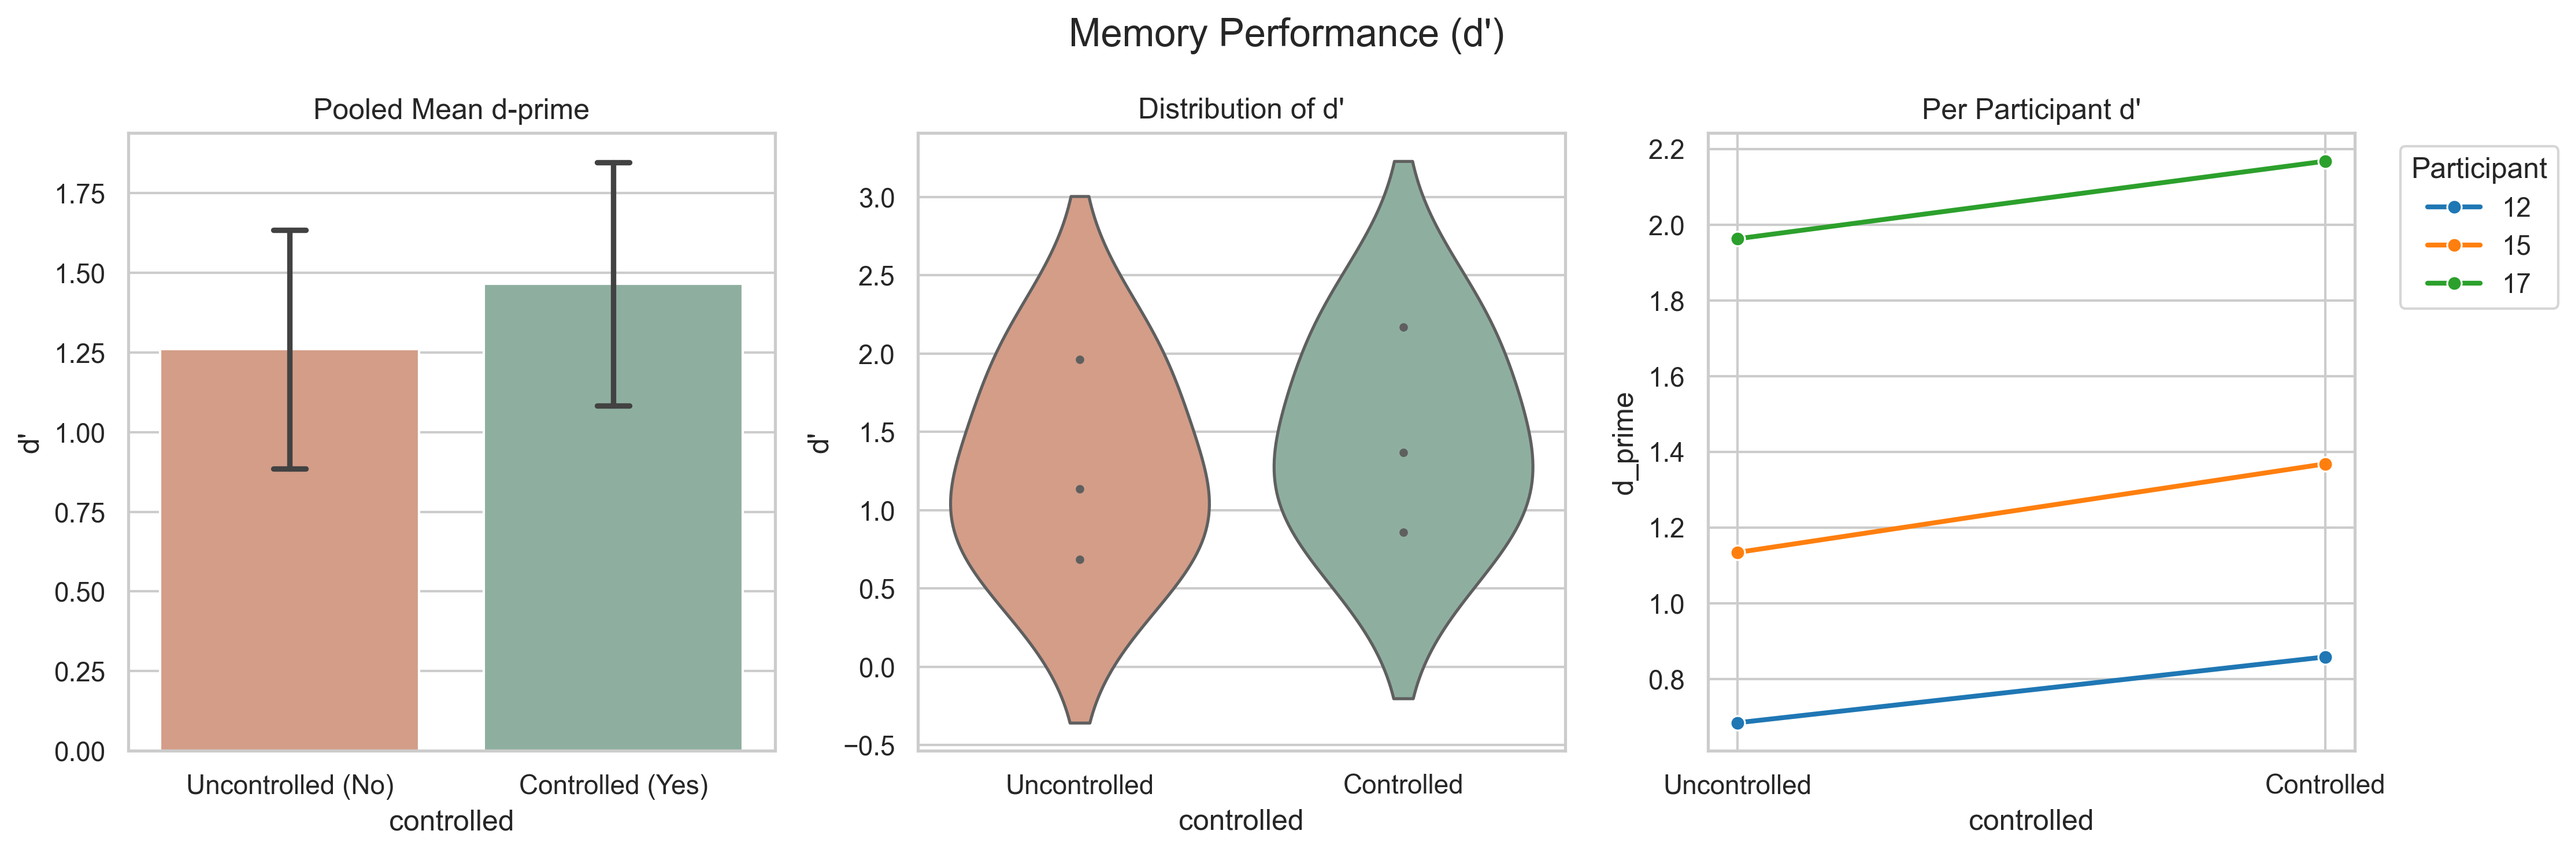
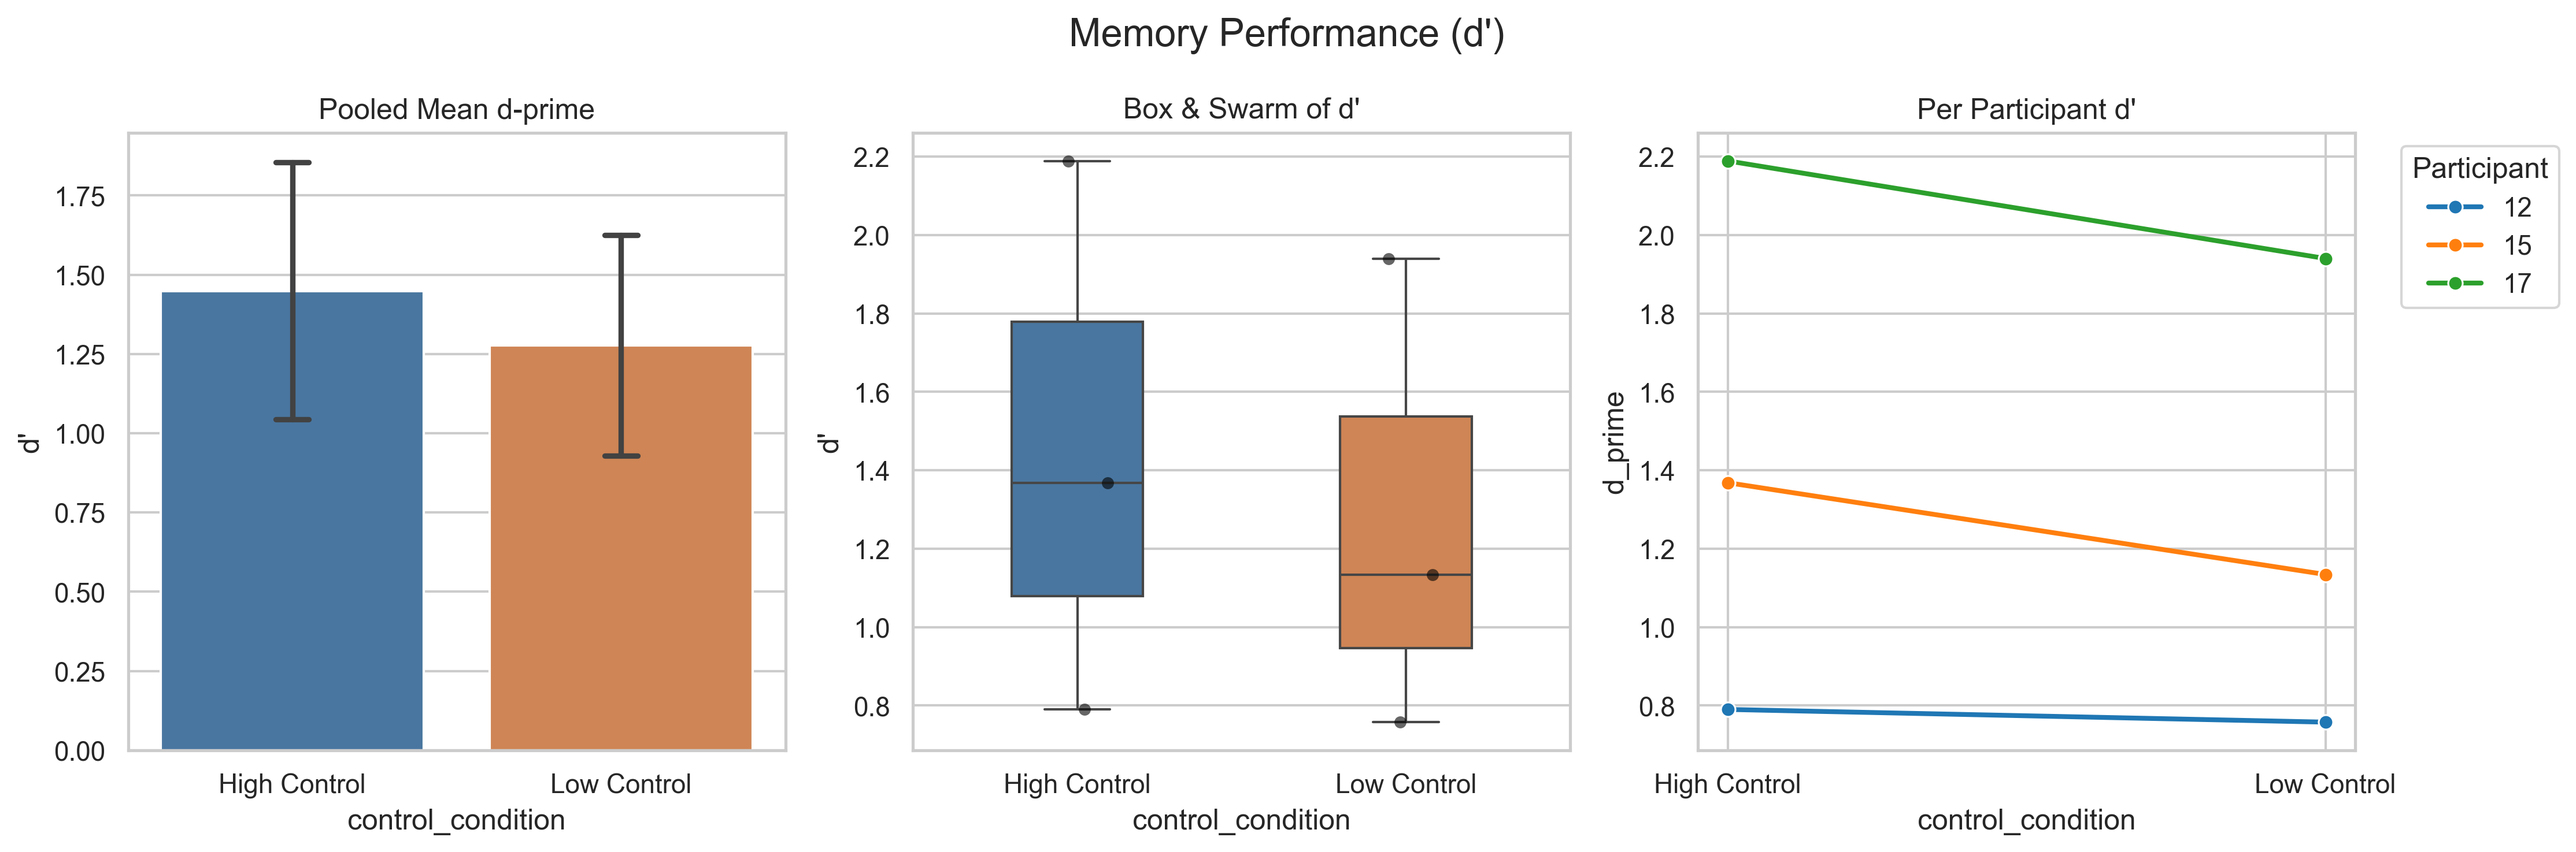
updated manipulation check, model predictor #2,  plots

diff --git a/beh_analyses_1.py b/beh_analyses_1.py
@@ -143,38 +143,7 @@ print("="*40)
 
 clean_recog_data["controlled"] = clean_recog_data["controlled"].astype(str).str.strip().str.lower()
 
-# --- Compute d-prime ---
-def compute_d_prime(hits, misses, false_alarms, correct_rejections):
-    hit_rate = (hits + 0.5) / (hits + misses + 1)
-    fa_rate = (false_alarms + 0.5) / (false_alarms + correct_rejections + 1)
-    return norm.ppf(hit_rate) - norm.ppf(fa_rate)
-
-false_alarm_stats = (
-    clean_recog_data[clean_recog_data["mem_ground_truth"] == "unseen"]
-    .groupby("participant")["mem_response"]
-    .value_counts().unstack(fill_value=0)
-    .rename(columns={"yes": "false_alarms", "no": "correct_rejections"}).reset_index()
-)
-for col in ["false_alarms", "correct_rejections"]:
-    if col not in false_alarm_stats.columns: false_alarm_stats[col] = 0
-
-rows = []
-for participant, subject_data in clean_recog_data.groupby("participant"):
-    fa_row = false_alarm_stats[false_alarm_stats["participant"] == participant]
-    if fa_row.empty: continue
-    fa, cr = int(fa_row["false_alarms"].iloc[0]), int(fa_row["correct_rejections"].iloc[0])
-
-    for condition, condition_data in subject_data[subject_data["mem_ground_truth"] == "seen"].groupby("controlled"):
-        if condition not in {"yes", "no"}: continue
-        hits, misses = (condition_data["mem_response"] == "yes").sum(), (condition_data["mem_response"] == "no").sum()
-        rows.append({"participant": participant, "controlled": condition, "hits": hits, "misses": misses,
-                     "false_alarms": fa, "correct_rejections": cr, "d_prime": compute_d_prime(hits, misses, fa, cr)})
-
-results_df = pd.DataFrame(rows)
-results_df.to_csv(OUTPUT_DIR / "dprime_by_condition.csv", index=False)
-print("Saved d' summaries to analysis_output/dprime_by_condition.csv")
-
-# --- Merge Main Data vars into Recognition Targets ---
+# --- 1. Merge Main Data vars into Recognition Targets ---
 targets = clean_recog_data[clean_recog_data['mem_ground_truth'] == 'seen'].copy()
 
 lookup_A = data[['participant', 'img_A_name', 'control_condition', 'detection_accuracy']].rename(columns={'img_A_name': 'mem_filename'})
@@ -186,7 +155,7 @@ if 'control_condition' in targets.columns:
 
 targets = targets.merge(img_lookup, on=['participant', 'mem_filename'], how='left')
 
-# --- Assign Foils (Dummy Conditions) ---
+# --- 2. Assign Foils (Dummy Conditions) ---
 foils = clean_recog_data[clean_recog_data['mem_ground_truth'] == 'unseen'].copy()
 foils = foils.sort_values(by=['participant', 'mem_filename'])
 row_numbers = foils.groupby('participant').cumcount()
@@ -195,17 +164,59 @@ total_foils = foils.groupby('participant')['mem_ground_truth'].transform('count'
 foils['control_condition'] = np.where(row_numbers < (total_foils / 2), 'high', 'low')
 foils['controlled'] = np.where(row_numbers % 2 == 0, 'yes', 'no')
 
-# --- Combine Model Data & Contrast Code ---
+# --- 3. Combine Model Data & Contrast Code ---
 model_data = pd.concat([targets, foils], ignore_index=True)
 
 model_data['said_old_int'] = model_data['mem_response'].map({'yes': 1, 'no': 0})
 model_data['log_mem_rt'] = np.log(model_data['mem_rt']) 
 
+# Predictor 1: Control Condition (+0.5 High, -0.5 Low)
 model_data['control_c'] = np.where(model_data['control_condition'] == 'high', 0.5, -0.5)
-model_data['item_type_c'] = np.where(model_data['controlled'] == 'yes', 0.5, -0.5)
 
+# Predictor 2: Item Type (+0.5 SEEN, -0.5 UNSEEN) - FIXED BASED ON SUPERVISOR FEEDBACK
+model_data['item_type_c'] = np.where(model_data['mem_ground_truth'] == 'seen', 0.5, -0.5)
+
+# Predictor 3: Detection Accuracy
 model_data['detection_accuracy_c'] = np.where(model_data['detection_accuracy'] == 1, 0.5, 
                                      np.where(model_data['detection_accuracy'] == 0, -0.5, np.nan))
+
+# --- 4. Compute d-prime (Now calculating based on High vs Low Control) ---
+def compute_d_prime(hits, misses, false_alarms, correct_rejections):
+    hit_rate = (hits + 0.5) / (hits + misses + 1)
+    fa_rate = (false_alarms + 0.5) / (false_alarms + correct_rejections + 1)
+    return norm.ppf(hit_rate) - norm.ppf(fa_rate)
+
+false_alarm_stats = (
+    model_data[model_data["mem_ground_truth"] == "unseen"]
+    .groupby("participant")["mem_response"]
+    .value_counts().unstack(fill_value=0)
+    .rename(columns={"yes": "false_alarms", "no": "correct_rejections"}).reset_index()
+)
+for col in ["false_alarms", "correct_rejections"]:
+    if col not in false_alarm_stats.columns: false_alarm_stats[col] = 0
+
+rows = []
+for participant, subject_data in model_data.groupby("participant"):
+    fa_row = false_alarm_stats[false_alarm_stats["participant"] == participant]
+    if fa_row.empty: continue
+    fa, cr = int(fa_row["false_alarms"].iloc[0]), int(fa_row["correct_rejections"].iloc[0])
+
+    # Grouping by control_condition for our main effect hypothesis!
+    for condition, condition_data in subject_data[subject_data["mem_ground_truth"] == "seen"].groupby("control_condition"):
+        if condition not in {"high", "low"}: continue
+        hits, misses = (condition_data["mem_response"] == "yes").sum(), (condition_data["mem_response"] == "no").sum()
+        rows.append({"participant": participant, "control_condition": condition, "hits": hits, "misses": misses,
+                     "false_alarms": fa, "correct_rejections": cr, "d_prime": compute_d_prime(hits, misses, fa, cr)})
+
+results_df = pd.DataFrame(rows)
+results_df.to_csv(OUTPUT_DIR / "dprime_by_condition.csv", index=False)
+print("Saved d' summaries to analysis_output/dprime_by_condition.csv")
+
+# --- 5. Above-Chance Memory Check (One-Sample T-Test) ---
+mean_dprime_per_pt = results_df.groupby('participant')['d_prime'].mean()
+print("\n--- D-PRIME ONE-SAMPLE T-TEST (Is memory above chance?) ---")
+dprime_ttest = pg.ttest(mean_dprime_per_pt, 0)
+print(dprime_ttest.to_string())
 
 
 # =============================================================================
@@ -243,7 +254,7 @@ rq2_rt.fit()
 print(rq2_rt.result_fit)
 
 # =============================================================================
-# PHASE 6: PLOTTING (WITH CUSTOM COLOR PALETTES)
+# PHASE 6: PLOTTING (UPDATED FOR MAIN EFFECT)
 # =============================================================================
 print("\n" + "="*40)
 print("PHASE 6: GENERATING PLOTS")
@@ -253,12 +264,15 @@ sns.set_theme(style="whitegrid")
 PLOT_DIR = OUTPUT_DIR / "plots"
 PLOT_DIR.mkdir(parents=True, exist_ok=True)
 
+# Condition Colors (Blue for High, Orange for Low)
 COND_COLORS = {'high': '#3a76af', 'low': '#e38041'}
-ITEM_COLORS = {'yes': '#88b5a1', 'no': '#df987b'}
 
 unique_pts = pt_means['participant'].unique()
 pt_palette = sns.color_palette("tab10", n_colors=len(unique_pts))
 PT_COLORS = {pt: color for pt, color in zip(unique_pts, pt_palette)}
+
+# Sort condition alphabetically so 'high' always comes before 'low' in plots
+results_df['control_condition'] = pd.Categorical(results_df['control_condition'], categories=['high', 'low'], ordered=True)
 
 # --- H3: Sanity Check Plots ---
 mani_data['detection_accuracy_pct'] = mani_data['detection_accuracy'] * 100
@@ -266,7 +280,7 @@ mani_data['detection_accuracy_pct'] = mani_data['detection_accuracy'] * 100
 fig, axes = plt.subplots(2, 2, figsize=(12, 10))
 fig.suptitle('Sanity Checks: Agency Rating & Detection Accuracy', fontsize=16)
 
-sns.barplot(data=mani_data, x='control_condition', y='agency_rating', capsize=.1, errorbar='se', palette=COND_COLORS, hue='control_condition', ax=axes[0, 0])
+sns.barplot(data=mani_data, x='control_condition', y='agency_rating', order=['high', 'low'], capsize=.1, errorbar='se', palette=COND_COLORS, hue='control_condition', ax=axes[0, 0])
 axes[0, 0].set_title('Pooled Agency Rating')
 axes[0, 0].set_ylabel('Agency Rating')
 
@@ -274,7 +288,7 @@ sns.lineplot(data=pt_means, x='control_condition', y='agency_rating', hue='parti
 axes[0, 1].set_title('Per Participant Agency Rating')
 axes[0, 1].legend(title='Participant', bbox_to_anchor=(1.05, 1), loc='upper left')
 
-sns.barplot(data=mani_data, x='control_condition', y='detection_accuracy_pct', capsize=.1, errorbar='se', palette=COND_COLORS, hue='control_condition', ax=axes[1, 0])
+sns.barplot(data=mani_data, x='control_condition', y='detection_accuracy_pct', order=['high', 'low'], capsize=.1, errorbar='se', palette=COND_COLORS, hue='control_condition', ax=axes[1, 0])
 axes[1, 0].set_title('Pooled Detection Accuracy (%)')
 axes[1, 0].set_ylabel('Accuracy (%)')
 
@@ -292,22 +306,25 @@ print("Saved H3 Sanity Check Plots.")
 fig, axes = plt.subplots(1, 3, figsize=(15, 5))
 fig.suptitle("Memory Performance (d')", fontsize=16)
 
-sns.barplot(data=results_df, x='controlled', y='d_prime', capsize=.1, errorbar='se', palette=ITEM_COLORS, hue='controlled', ax=axes[0])
+# Swapped x to control_condition, updated palette
+sns.barplot(data=results_df, x='control_condition', y='d_prime', order=['high', 'low'], capsize=.1, errorbar='se', palette=COND_COLORS, hue='control_condition', ax=axes[0])
 axes[0].set_title('Pooled Mean d-prime')
 axes[0].set_ylabel("d'")
 axes[0].set_xticks([0, 1])
-axes[0].set_xticklabels(['Uncontrolled (No)', 'Controlled (Yes)'])
+axes[0].set_xticklabels(['High Control', 'Low Control'])
 
-sns.violinplot(data=results_df, x='controlled', y='d_prime', inner='point', palette=ITEM_COLORS, hue='controlled', ax=axes[1])
-axes[1].set_title("Distribution of d'")
+# Box + Strip Plot (Honest Distribution)
+sns.boxplot(data=results_df, x='control_condition', y='d_prime', order=['high', 'low'], width=0.4, palette=COND_COLORS, hue='control_condition', fliersize=0, ax=axes[1])
+sns.stripplot(data=results_df, x='control_condition', y='d_prime', order=['high', 'low'], color='black', alpha=0.6, jitter=True, ax=axes[1])
+axes[1].set_title("Box & Swarm of d'")
 axes[1].set_ylabel("d'")
 axes[1].set_xticks([0, 1])
-axes[1].set_xticklabels(['Uncontrolled', 'Controlled'])
+axes[1].set_xticklabels(['High Control', 'Low Control'])
 
-sns.lineplot(data=results_df, x='controlled', y='d_prime', hue='participant', palette=PT_COLORS, marker='o', linewidth=2, ax=axes[2])
+sns.lineplot(data=results_df, x='control_condition', y='d_prime', hue='participant', palette=PT_COLORS, marker='o', linewidth=2, ax=axes[2])
 axes[2].set_title("Per Participant d'")
 axes[2].set_xticks([0, 1])
-axes[2].set_xticklabels(['Uncontrolled', 'Controlled'])
+axes[2].set_xticklabels(['High Control', 'Low Control'])
 axes[2].legend(title='Participant', bbox_to_anchor=(1.05, 1), loc='upper left')
 
 plt.tight_layout()
@@ -321,22 +338,25 @@ results_df['hit_rate'] = results_df['hits'] / (results_df['hits'] + results_df['
 fig, axes = plt.subplots(1, 3, figsize=(15, 5))
 fig.suptitle("Memory Performance (Hit Rate)", fontsize=16)
 
-sns.barplot(data=results_df, x='controlled', y='hit_rate', capsize=.1, errorbar='se', palette=ITEM_COLORS, hue='controlled', ax=axes[0])
+# Swapped x to control_condition, updated palette
+sns.barplot(data=results_df, x='control_condition', y='hit_rate', order=['high', 'low'], capsize=.1, errorbar='se', palette=COND_COLORS, hue='control_condition', ax=axes[0])
 axes[0].set_title('Pooled Mean Hit Rate')
 axes[0].set_ylabel("Hit Rate")
 axes[0].set_xticks([0, 1])
-axes[0].set_xticklabels(['Uncontrolled', 'Controlled'])
+axes[0].set_xticklabels(['High Control', 'Low Control'])
 
-sns.violinplot(data=results_df, x='controlled', y='hit_rate', inner='point', palette=ITEM_COLORS, hue='controlled', ax=axes[1])
-axes[1].set_title("Distribution of Hit Rate")
+# Box + Strip Plot 
+sns.boxplot(data=results_df, x='control_condition', y='hit_rate', order=['high', 'low'], width=0.4, palette=COND_COLORS, hue='control_condition', fliersize=0, ax=axes[1])
+sns.stripplot(data=results_df, x='control_condition', y='hit_rate', order=['high', 'low'], color='black', alpha=0.6, jitter=True, ax=axes[1])
+axes[1].set_title("Box & Swarm of Hit Rate")
 axes[1].set_ylabel("Hit Rate")
 axes[1].set_xticks([0, 1])
-axes[1].set_xticklabels(['Uncontrolled', 'Controlled'])
+axes[1].set_xticklabels(['High Control', 'Low Control'])
 
-sns.lineplot(data=results_df, x='controlled', y='hit_rate', hue='participant', palette=PT_COLORS, marker='o', linewidth=2, ax=axes[2])
+sns.lineplot(data=results_df, x='control_condition', y='hit_rate', hue='participant', palette=PT_COLORS, marker='o', linewidth=2, ax=axes[2])
 axes[2].set_title("Per Participant Hit Rate")
 axes[2].set_xticks([0, 1])
-axes[2].set_xticklabels(['Uncontrolled', 'Controlled'])
+axes[2].set_xticklabels(['High Control', 'Low Control'])
 axes[2].legend(title='Participant', bbox_to_anchor=(1.05, 1), loc='upper left')
 
 plt.tight_layout()
